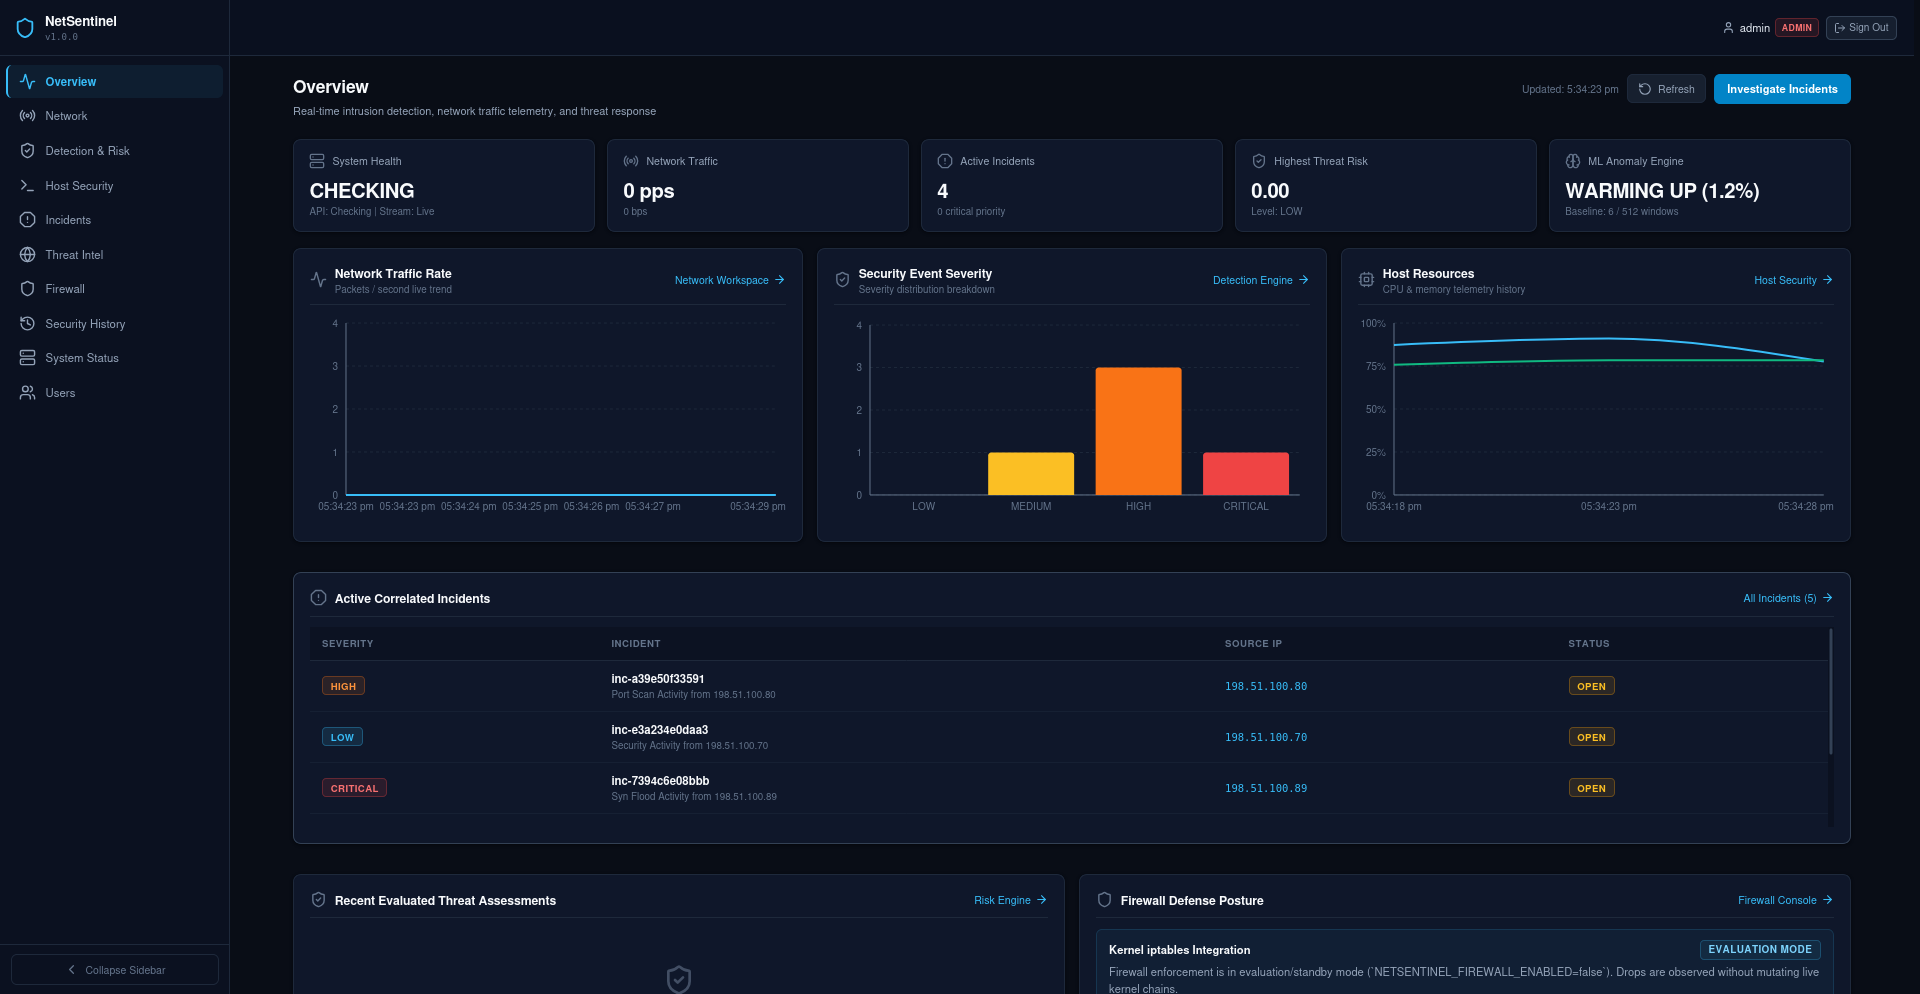
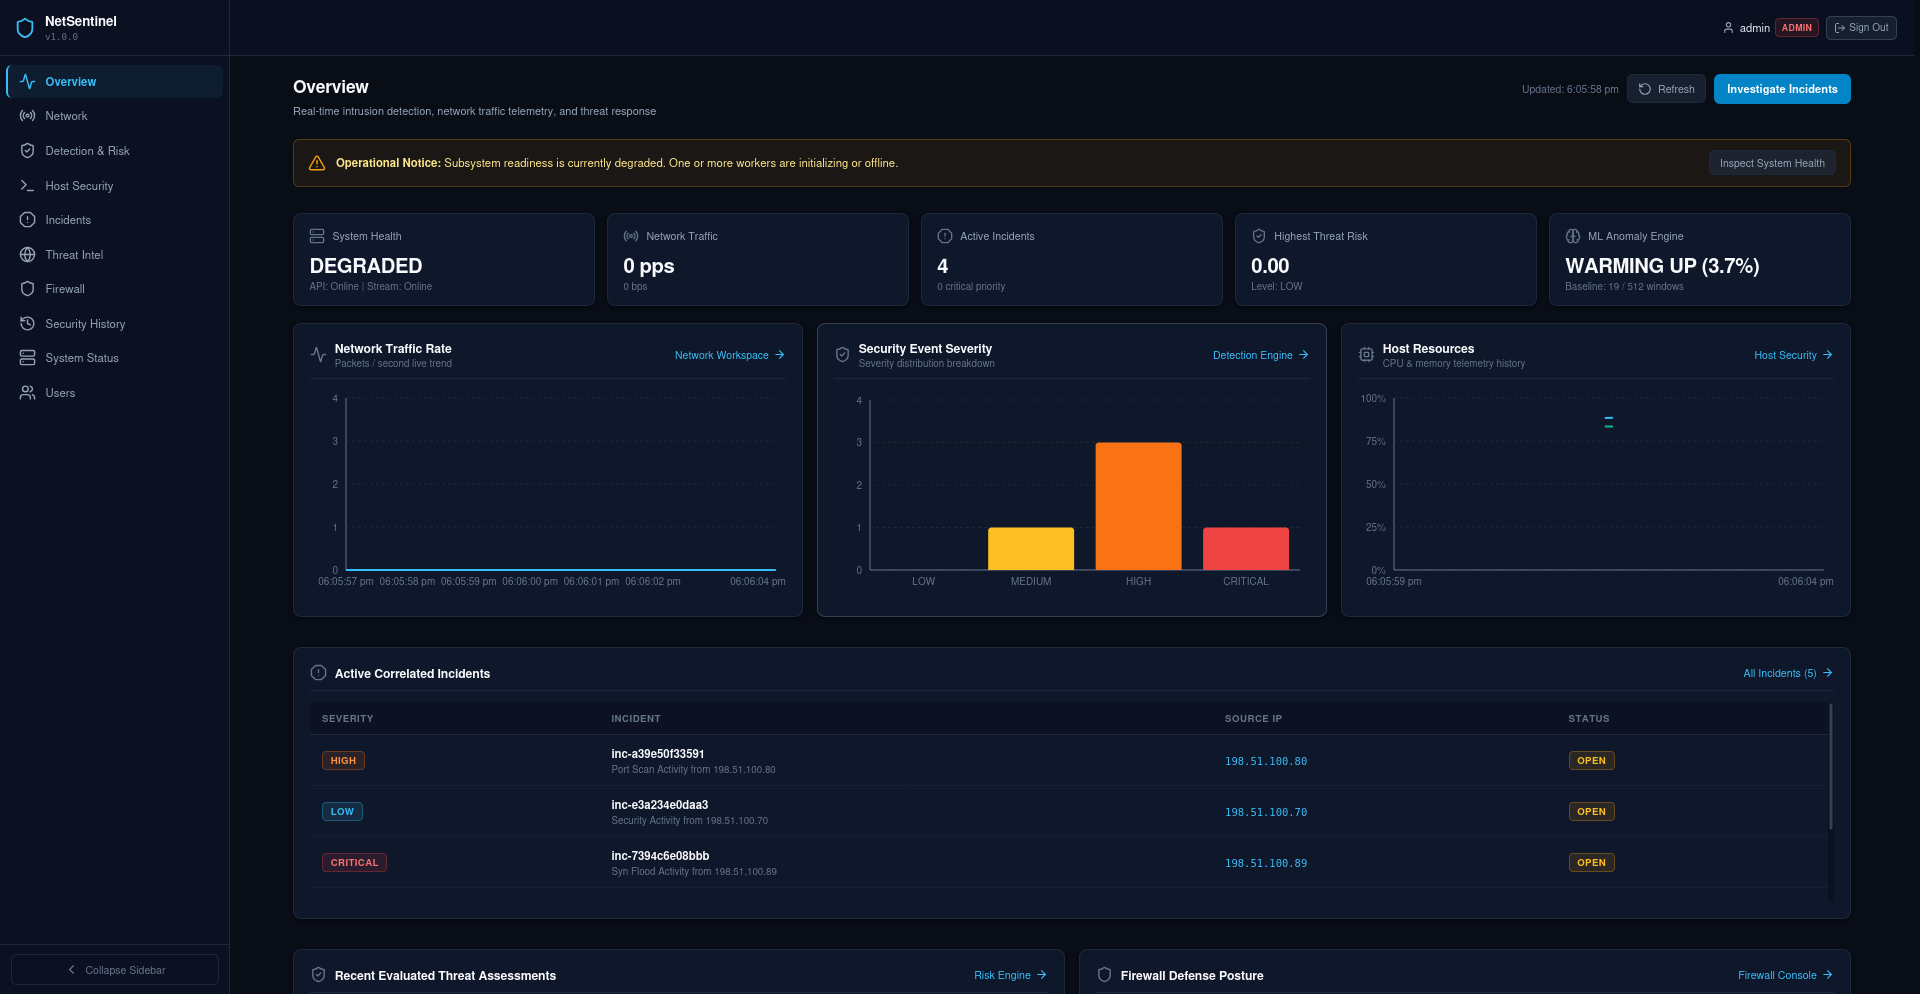
fix(overview): fetch readiness probe in loadOverviewData and reflect live health state

diff --git a/frontend/src/pages/Overview.jsx b/frontend/src/pages/Overview.jsx
@@ -38,6 +38,7 @@ import { LoadingState } from '../components/common/LoadingState';
 import { EmptyState } from '../components/common/EmptyState';
 import { ErrorState } from '../components/common/ErrorState';
 import { useSocketEvent } from '../hooks/useSocketEvent';
+import { socket } from '../services/socket';
 import {
   fetchReadiness,
   fetchTrafficMetrics,
@@ -72,6 +73,7 @@ export function Overview() {
 
   // Backend Data State
   const [readiness, setReadiness] = useState(null);
+  const [socketConnected, setSocketConnected] = useState(socket?.connected || false);
   const [trafficMetrics, setTrafficMetrics] = useState(null);
   const [trafficHistory, setTrafficHistory] = useState([]);
   const [summary, setSummary] = useState(null);
@@ -89,6 +91,7 @@ export function Overview() {
     setError(null);
     try {
       const [
+        readyRes,
         trafficRes,
         sumRes,
         incRes,
@@ -100,6 +103,7 @@ export function Overview() {
         telemRes,
         telemHistRes,
       ] = await Promise.allSettled([
+        fetchReadiness(),
         fetchTrafficMetrics(),
         fetchSecuritySummary(),
         fetchIncidents({ limit: 5 }),
@@ -111,6 +115,12 @@ export function Overview() {
         fetchTelemetryCurrent(),
         fetchTelemetryHistory(20),
       ]);
+
+      if (readyRes.status === 'fulfilled' && readyRes.value) {
+        setReadiness(readyRes.value);
+      } else if (readyRes.status === 'rejected') {
+        setReadiness({ ready: false, ok: false, error: readyRes.reason?.message || 'Readiness probe unreachable' });
+      }
 
       if (trafficRes.status === 'fulfilled' && trafficRes.value) {
         setTrafficMetrics(trafficRes.value);
@@ -156,6 +166,19 @@ export function Overview() {
     const interval = setInterval(loadOverviewData, 20000);
     return () => clearInterval(interval);
   }, [loadOverviewData]);
+
+  // Track live WebSocket connection state
+  useEffect(() => {
+    const onConnect = () => setSocketConnected(true);
+    const onDisconnect = () => setSocketConnected(false);
+    socket.on('connect', onConnect);
+    socket.on('disconnect', onDisconnect);
+    setSocketConnected(socket.connected || false);
+    return () => {
+      socket.off('connect', onConnect);
+      socket.off('disconnect', onDisconnect);
+    };
+  }, []);
 
   // Real-Time Socket Stream Handlers
   useSocketEvent('traffic_metrics', (data) => {
@@ -307,7 +330,7 @@ export function Overview() {
         <MetricCard
           title="System Health"
           value={isReady ? 'OPERATIONAL' : readiness ? 'DEGRADED' : 'CHECKING'}
-          subtext={`API: ${isReady ? 'Online' : 'Checking'} | Stream: Live`}
+          subtext={`API: ${readiness ? 'Online' : 'Checking'} | Stream: ${socketConnected ? 'Online' : 'Offline'}`}
           icon={Server}
           onClick={() => navigate('/system')}
         />
